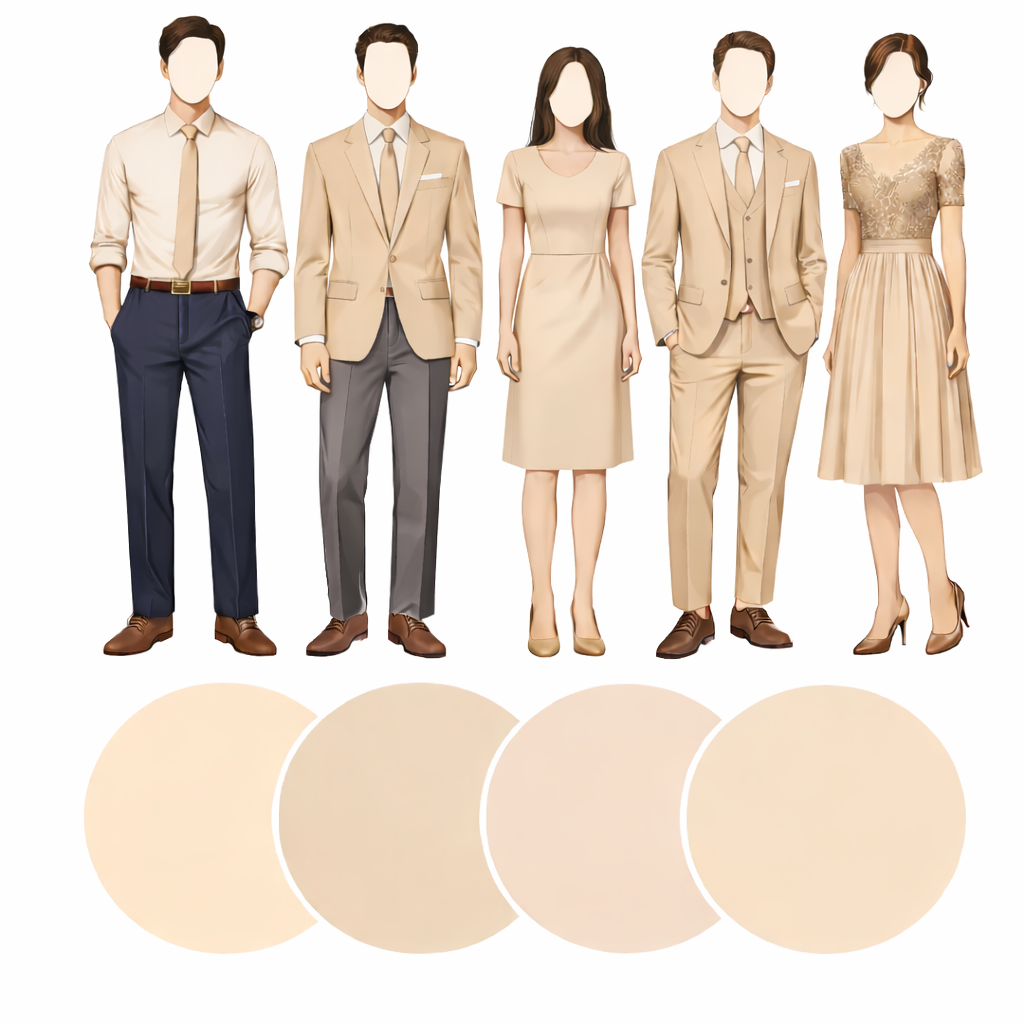
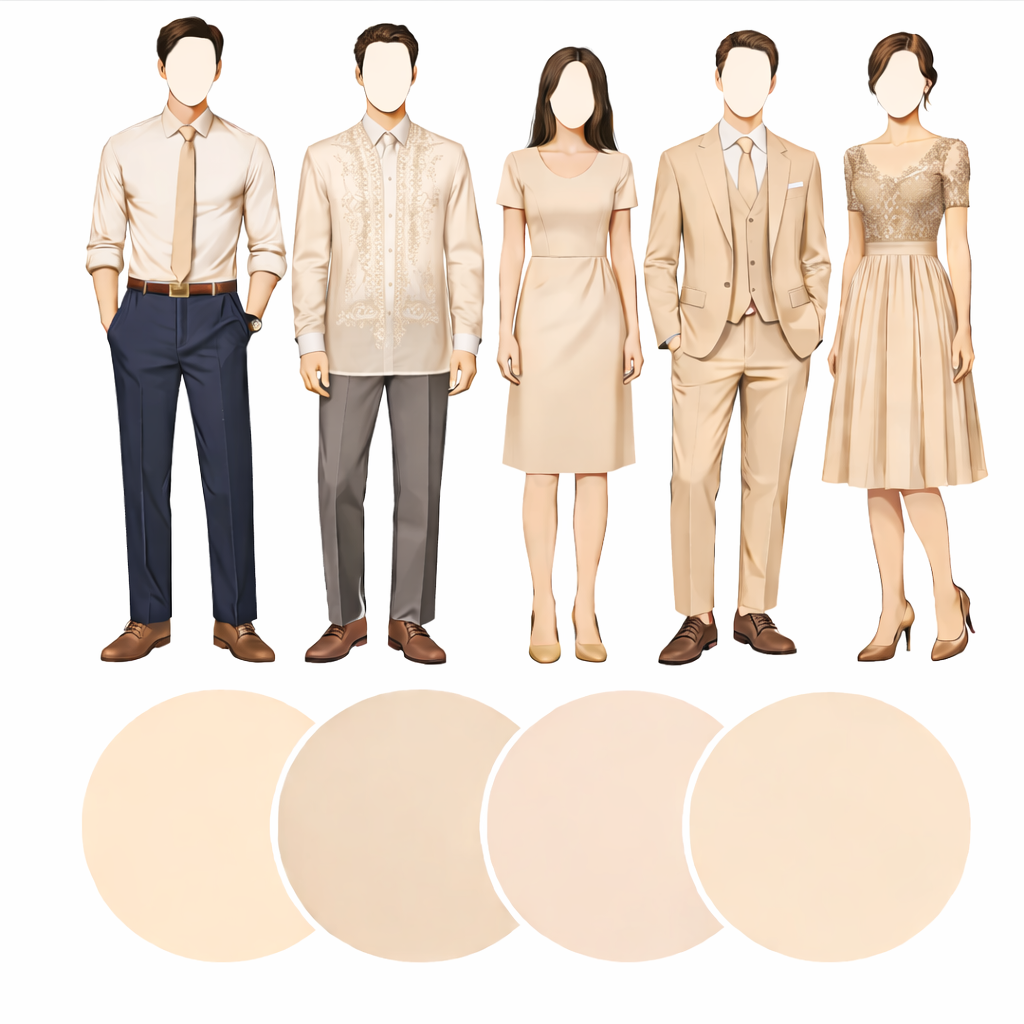
Add files via upload

diff --git a/styles.css b/styles.css
@@ -1029,8 +1029,10 @@ body {
     max-width: 100%;
     height: auto;
     border-radius: 10px;
-    border: 3px solid var(--dusty-rose);
-    padding: 15px;
+    border: 5px solid var(--dusty-rose);
+    padding: 25px;
+    background-color: rgba(255, 255, 255, 0.8);
+    box-shadow: 0 4px 12px rgba(212, 165, 165, 0.3);
 }
 
 .bottom-padding {
@@ -1362,6 +1364,15 @@ body {
         height: 250px;
         aspect-ratio: 16 / 9;
     }
+
+    .dresscode-image {
+        padding: 15px;
+    }
+
+    .dresscode-image img {
+        border: 6px solid var(--dusty-rose);
+        padding: 30px;
+    }
 }
 
 @media (max-width: 480px) {
@@ -1465,5 +1476,16 @@ body {
         max-width: 100%;
         height: 200px;
         aspect-ratio: 16 / 9;
+    }
+
+    .dresscode-image {
+        padding: 10px;
+        margin-top: 20px;
+        margin-bottom: 30px;
+    }
+
+    .dresscode-image img {
+        border: 7px solid var(--dusty-rose);
+        padding: 35px;
     }
 }

diff --git a/index.html b/index.html
@@ -179,7 +179,7 @@
                         </div>
                         <div class="dresscode-reminder">
                             <span class="reminder-label">💛 Gentle Reminder</span>
-                            <p>Please refrain from wearing <span class="color-black">black</span>, <span class="color-white">white</span>, or <span class="color-pink">pink</span> attire.</p>
+                            <p>Please avoid wearing <span class="color-black">black</span>, <span class="color-white">white</span>, or <span class="color-pink">pink</span> attire.</p>
                         </div>
                     </div>
                 </div>
